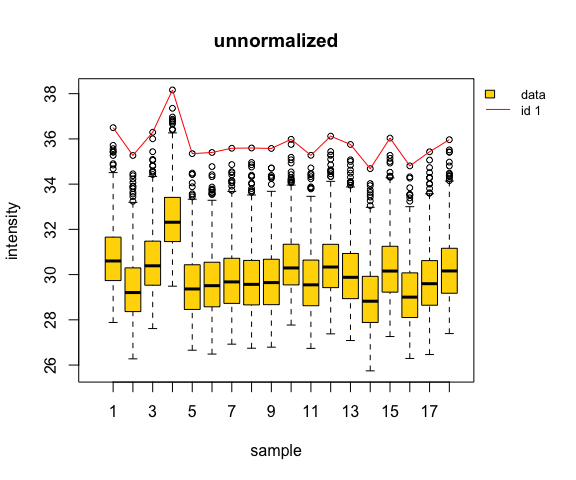
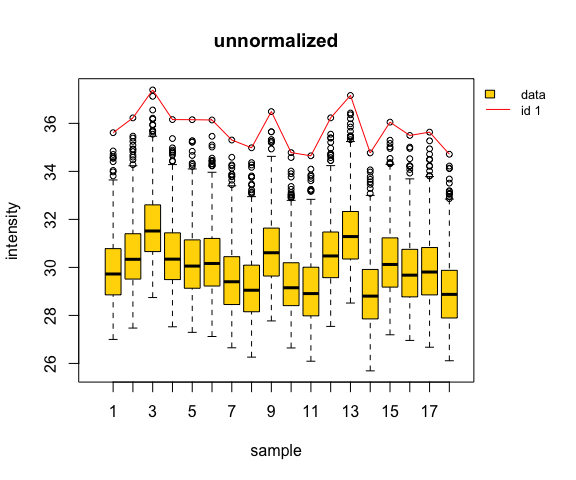
Update documentation

diff --git a/README.md b/README.md
@@ -1,19 +1,27 @@
 
 <!-- README.md is generated from README.Rmd. Please edit that file -->
-MBQN Package
-============
+
+# MBQN Package
 
 Mean/Median-balanced quantile normalization for preprocessing omics data
 
-Description
------------
+## Description
 
-This package contains a modified quantile normalization (QN) for preprocessing and analysis of omics or other matrix-like organized data with intensity values biased by global, columnwise distortions of intensity mean and scale. The modification balances the mean intensity of features (rows) which are rank invariant (RI) or nearly rank invariant (NRI) across samples (columns) before quantile normalization \[1\]. This helps to prevent an over-correction of the intensity profiles of RI and NRI features by classical QN and therefore supports the reduction of systematics in downstream analyses. Additional package functions help to detect, identify, and visualize potential RI or NRI features in the data and demonstrate the use of the modification.
+This package contains a modified quantile normalization (QN) for
+preprocessing and analysis of omics or other matrix-like organized data
+with intensity values biased by global, columnwise distortions of
+intensity mean and scale. The modification balances the mean intensity
+of features (rows) which are rank invariant (RI) or nearly rank
+invariant (NRI) across samples (columns) before quantile normalization
+\[1\]. This helps to prevent an over-correction of the intensity
+profiles of RI and NRI features by classical QN and therefore supports
+the reduction of systematics in downstream analyses. Additional package
+functions help to detect, identify, and visualize potential RI or NRI
+features in the data and demonstrate the use of the modification.
 
-Installation
-------------
+## Installation
 
-To install this package, you need R version &gt;= 3.3.3.
+To install this package, you need R version \>= 3.5.
 
 For installation from Bioconductor run in R:
 
@@ -27,51 +35,72 @@ For installation from Github run in R:
 
 ``` r
 # install.packages("devtools")
-devtools::install_github("arianeschad/mbqn")
+# devtools::install_github("arianeschad/MBQN")
 ```
 
 or
 
 ``` r
 # install.packages("githubinstall")
-githubinstall::githubinstall("mbqn")
+# githubinstall::githubinstall("MBQN")
 ```
 
-Dependencies
-------------
+## Dependencies
 
-The core of the MBQN package uses `normalizeQuantiles()` from the package `limma`\[2\], available at <https://bioconductor.org/packages/release/bioc/html/limma.html>, for computation of the quantile normalization. Optionally, `normalize.quantiles()` from the package `preprocessCore`\[3\], available at <https://bioconductor.org/packages/release/bioc/html/preprocessCore.html>, can be used. <br/>
+The core of the MBQN package uses `normalizeQuantiles()` from the
+package `limma`\[2\], available at
+<https://bioconductor.org/packages/release/bioc/html/limma.html>, for
+computation of the quantile normalization. Optionally,
+`normalize.quantiles()` from the package `preprocessCore`\[3\],
+available at
+<https://bioconductor.org/packages/release/bioc/html/preprocessCore.html>,
+can be used. <br/>
 
-The example function `mbqnExample()` in MBQN uses data from the PRIDE repository. To run this function one needs the R package `rpx` \[4\] to download the data. <br/>
+The example function `mbqnExample()` in MBQN uses data from the PRIDE
+repository. To run this function one needs the R package `rpx` \[4\] to
+download the data. <br/>
 
 To install these packages in R run: <br/>
 
 ``` r
-BiocManager::install(pkgs = c("preprocessCore","limma","rpx"))
+# BiocManager::install(pkgs = c("preprocessCore","limma","rpx"))
 ```
 
 Additional packages needed to run MBQN examples: <br/>
 
 ``` r
-install.packages(pkgs = c("filesstrings"), dependencies = TRUE)
+# install.packages(pkgs = c("filesstrings"), dependencies = TRUE)
 ```
 
-After installation, check `mbqnDemo` and `mbqnExample` for full working examples with further documentation.
+After installation, check `mbqnDemo` and `mbqnExample` for full working
+examples with further documentation.
 
-Basic Usage
------------
+## Basic Usage
 
-The package provides two basic functions: `mbqn()` applies quantile normalization or mean-balanced quantile normalization to a matrix. `mbqnNRI()` applies quantile normalization and mean balanced quantile normalization only to selected nearly rank invariant and rank invariant features, specified by a threshold or manually. The input matrix may contain NAs. To run one of these functions you will need to provide an input matrix similar to the data matrix in `mbqnDemo()` or `mbqnExample()`. The argument `FUN` is used to select between classical quantile normalization (default), and mean or median balanced quantile normalization. The function `mbqnCheckSaturation()` can be used to check a data matrix for rank or nearly rank invariant features. It provides a list of potential RI/NRI features, a rank invariance frequency, and a graphical output.
+The package provides two basic functions: `mbqn()` applies quantile
+normalization or mean-balanced quantile normalization to a matrix.
+`mbqnNRI()` applies quantile normalization and mean balanced quantile
+normalization only to selected nearly rank invariant and rank invariant
+features, specified by a threshold or manually. The input matrix may
+contain NAs. To run one of these functions you will need to provide an
+input matrix similar to the data matrix in `mbqnDemo()` or
+`mbqnExample()`. The argument `FUN` is used to select between classical
+quantile normalization (default), and mean or median balanced quantile
+normalization. The function `mbqnCheckSaturation()` can be used to check
+a data matrix for rank or nearly rank invariant features. It provides a
+list of potential RI/NRI features, a rank invariance frequency, and a
+graphical output.
 
-Examples
---------
+## Examples
 
-Example 1: Generate a distorted omics-like matrix of log2-transformed intensities with missing values and a single rank invariant feature:
+Example 1: Generate a distorted omics-like matrix of log2-transformed
+intensities with missing values and a single rank invariant feature:
 
 ``` r
 ## basic example
 library("MBQN")
 # mtx <- matrix(c(5,2,3,NA,4,1,4,2,3,4,6,NA),ncol=3)
+set.seed(1234)
 mtx <- mbqnSimuData("omics.dep")
 mtx <- mbqnSimuDistortion(mtx)$x.mod
 ```
@@ -81,12 +110,9 @@ plot.new()
 mbqnBoxplot(mtx, irow = 1, main = "unnormalized")
 ```
 
-<img src="README-figure1-1.png" alt="Fig. 1 Boxplot of the unnormalized, distorted intensity data matrix. The first feature is an RI feature (red line). It has maximum intensity for each sample!"  />
-<p class="caption">
-Fig. 1 Boxplot of the unnormalized, distorted intensity data matrix. The first feature is an RI feature (red line). It has maximum intensity for each sample!
-</p>
-
-<br /> Apply check for rank invariant (RI) or nearly rank invariant (NRI) features to the data matrix and visualize result:
+<img src="README-figure1-1.png" title="Fig. 1 Boxplot of the unnormalized, distorted intensity data matrix. The first feature is an RI feature (red line). It has maximum intensity for each sample!" alt="Fig. 1 Boxplot of the unnormalized, distorted intensity data matrix. The first feature is an RI feature (red line). It has maximum intensity for each sample!" style="display: block; margin: auto;" />
+<br /> Apply check for rank invariant (RI) or nearly rank invariant
+(NRI) features to the data matrix and visualize result:
 
 ``` r
 ri.obj <- mbqnGetNRIfeatures(mtx, low_thr = 0.5)
@@ -98,41 +124,41 @@ plot.new()
 mbqnPlotRI(ri.obj)
 ```
 
-<img src="README-figure2-1.png" alt="Fig. 2 Correctly detected and identified RI feature with a data coverage of 100% across samples."  />
-<p class="caption">
-Fig. 2 Correctly detected and identified RI feature with a data coverage of 100% across samples.
-</p>
-
-<br /> Apply quantile normalization with and without balancing the RI feature and compare the intensity features:
+<img src="README-figure2-1.png" title="Fig. 2 Correctly detected and identified RI feature with a data coverage of 100% across samples." alt="Fig. 2 Correctly detected and identified RI feature with a data coverage of 100% across samples." style="display: block; margin: auto;" />
+<br /> Apply quantile normalization with and without balancing the RI
+feature and compare the intensity features:
 
 ``` r
 plot.new()
-mtx.norm <- mbqnNRI(x = mtx, FUN = median, verbose = FALSE) # MBQN
+mtx.norm <- mbqnNRI(x = mtx, FUN = median, verbose = FALSE) # mbqn
 mtx.qn <- mbqnNRI(x = mtx, FUN = NULL, verbose = FALSE) # QN
 mbqnBoxplot(mtx.norm, irow = ri.obj$ip, vals = data.frame(QN = mtx.qn[ri.obj$ip,]), main = "normalized")
 ```
 
-<img src="README-figure3-1.png" alt="Fig. 3 Quantile normalized intensities with balanced and unbalanced normalized RI feature. Classical quantile normalization suppresses any intensity variation of the RI feature, while the MBQN preserves its variation while reducing systematic batch effects!"  />
-<p class="caption">
-Fig. 3 Quantile normalized intensities with balanced and unbalanced normalized RI feature. Classical quantile normalization suppresses any intensity variation of the RI feature, while the MBQN preserves its variation while reducing systematic batch effects!
-</p>
+<img src="README-figure3-1.png" title="Fig. 3 Quantile normalized intensities with balanced and unbalanced normalized RI feature. Classical quantile normalization suppresses any intensity variation of the RI feature, while MBQN preserves its variation while reducing systematic batch effects!" alt="Fig. 3 Quantile normalized intensities with balanced and unbalanced normalized RI feature. Classical quantile normalization suppresses any intensity variation of the RI feature, while MBQN preserves its variation while reducing systematic batch effects!" style="display: block; margin: auto;" />
 
-<br /><br /> <br /><br /> Example 2: This example downloads an LFQ intensity dataset from the PRIDE repository, normalizes the data, identifies RI/NRI features, and give graphical output. One can choose between four data sets. By default data files are stored in the current working directory currentdir/PXDxxx.
+<br /><br /> <br /><br /> Example 2: This example downloads an LFQ
+intensity dataset from the PRIDE repository, normalizes the data,
+identifies RI/NRI features, and give graphical output. One can choose
+between four data sets. By default data files are stored in the current
+working directory currentdir/PXDxxx.
 
 ``` r
 ## Normalize LFQ intensity data from the PRIDE repository
 mbqnExample(which.example = 1)
 ```
 
-In order to run `mbqnExample()`, the respective proteinGroups.txt file must be first downloaded from PRIDE, e.g. with `MBQN:::get_pxdfile()` to a user-specified directory or you can directly download the data by running `mbqnExample()` to currentdir/PXDxxx.
+In order to run `mbqnExample()`, the respective proteinGroups.txt file
+must be first downloaded from PRIDE, e.g. with `MBQN:::get_pxdfile()` to
+a user-specified directory or you can directly download the data by
+running `mbqnExample()` to currentdir/PXDxxx.
 
-Figures
--------
+## Figures
 
-Figures created with MBQN are saved as pdf in the current working directory.
+Figures created with MBQN are saved as pdf in the current working
+directory.
 
-Documentation
--------------
+## Documentation
 
 To view the documentation for MBQN, type in R:
 
@@ -140,7 +166,15 @@ To view the documentation for MBQN, type in R:
 ??MBQN
 ```
 
-References
-----------
+## References
 
-\[1\] A. Schad and C. Kreutz, MBQN: an R/Bioconductor package for mean/ median-balanced quantile normalization. In prep. 2019 <br/> \[2\] Ritchie, M.E., Phipson, B., Wu, D., Hu, Y., Law, C.W., Shi, W., and Smyth, G.K. (2015). limma powers differential expression analyses for RNA-sequencing and microarray studies. Nucleic Acids Research 43(7), e47. <br/> \[3\] Ben Bolstad (2018). preprocessCore: A collection of pre-processing functions. R package version 1.44.0. <https://github.com/bmbolstad/preprocessCore>. <br/> \[4\] Laurent Gatto (2019). rpx: R Interface to the ProteomeXchange Repository. R package version 1.18.1. <https://github.com/lgatto/rpx>.
+\[1\] A. Schad and C. Kreutz, MBQN: an R/Bioconductor package for mean/
+median-balanced quantile normalization. In prep. 2019 <br/> \[2\]
+Ritchie, M.E., Phipson, B., Wu, D., Hu, Y., Law, C.W., Shi, W., and
+Smyth, G.K. (2015). limma powers differential expression analyses for
+RNA-sequencing and microarray studies. Nucleic Acids Research 43(7),
+e47. <br/> \[3\] Ben Bolstad (2018). preprocessCore: A collection of
+pre-processing functions. R package version 1.44.0.
+<https://github.com/bmbolstad/preprocessCore>. <br/> \[4\] Laurent Gatto
+(2019). rpx: R Interface to the ProteomeXchange Repository. R package
+version 1.18.1. <https://github.com/lgatto/rpx>.
